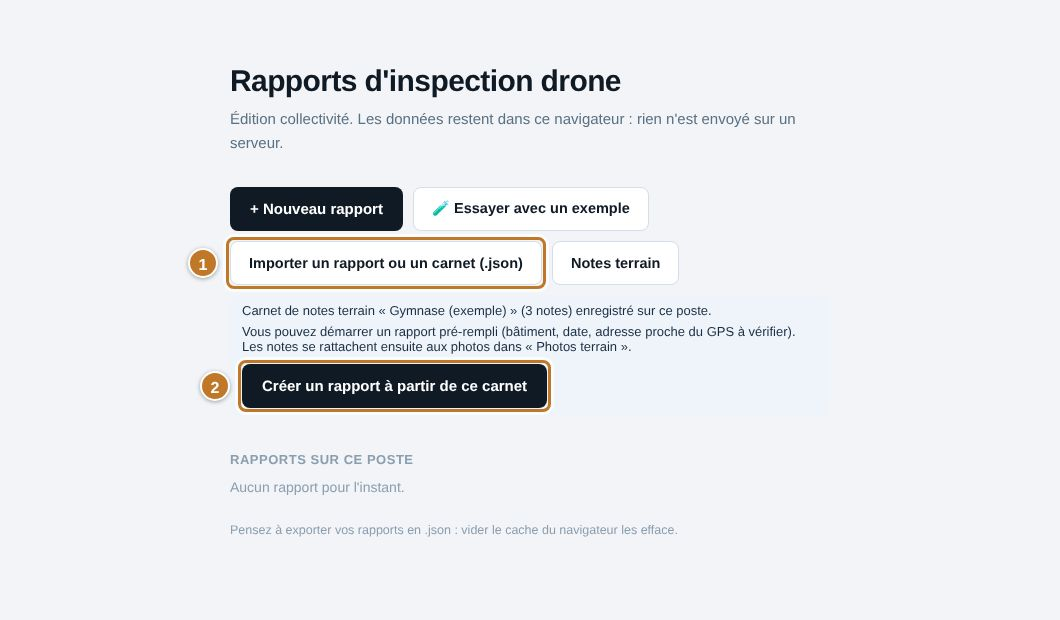
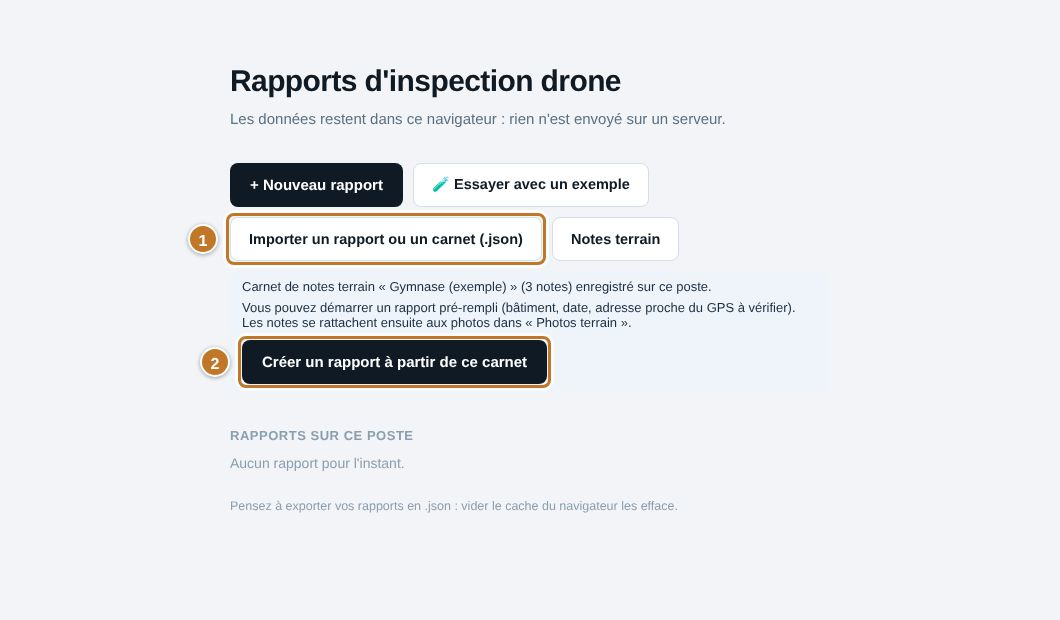
DroneReport tout court : fin de l'« édition collectivité »
Le projet SaaS est abandonné ; ce dépôt devient le projet DroneReport.
- Appli : étiquette « collectivité » du menu, sous-titre de l'accueil,
  message d'import, pied de page du PDF, titre de l'onglet et nom de
  l'appli installée.
- Fichiers .json : marqueurs dronereport/rapport et dronereport/carnet ;
  les anciens (dronereport-collectivite/…) s'importent toujours (tests).
- Base IndexedDB : nom historique conservé, sinon les navigateurs
  perdraient les rapports et carnets enregistrés.
- Paquet npm renommé dronereport ; captures du guide régénérées.
- README, AGENTS.md, PRODUCT.md, DESIGN.md, CHANGELOG, decisions.md.

Claude-Session: https://claude.ai/code/session_011V4VNhkAppRj6n6sbc18iJ

Changed region(s): [[0.1557, 0.1839, 0.7472, 0.8581]]

diff --git a/src/__tests__/formats.test.ts b/src/__tests__/formats.test.ts
@@ -1,0 +1,37 @@
+/**
+ * Formats des fichiers d'échange (.json) : nouveau marqueur « dronereport/… »,
+ * ancien marqueur « dronereport-collectivite/… » toujours accepté à l'import.
+ */
+import { describe, it, expect } from 'vitest'
+import { parseDraftFile } from '../lib/draftFile'
+import { parseCarnet, carnetToJson } from '../lib/notesTerrain'
+import { createPhotoDraft } from '../lib/reportDraft'
+import { carnetExemple } from '../lib/exemple'
+
+describe('rapport .json', () => {
+  const draft = createPhotoDraft()
+  it('lit le nouveau format', () => {
+    const txt = JSON.stringify({ format: 'dronereport/rapport', version: 1, draft })
+    expect(parseDraftFile(txt).sessionUuid).toBe(draft.sessionUuid)
+  })
+  it('lit encore les fichiers exportés avant le changement de nom', () => {
+    const txt = JSON.stringify({ format: 'dronereport-collectivite/rapport', version: 1, draft })
+    expect(parseDraftFile(txt).sessionUuid).toBe(draft.sessionUuid)
+  })
+  it('refuse un autre fichier, sans parler d\'édition', () => {
+    expect(() => parseDraftFile(JSON.stringify({ format: 'autre', draft }))).toThrow("Ce fichier n'est pas un rapport DroneReport.")
+  })
+})
+
+describe('carnet .json', () => {
+  const carnet = carnetExemple()
+  it('exporte avec le nouveau marqueur et se relit', () => {
+    const json = carnetToJson(carnet) as { format: string }
+    expect(json.format).toBe('dronereport/carnet')
+    expect(parseCarnet(JSON.stringify(json)).id).toBe(carnet.id)
+  })
+  it('lit encore les carnets exportés avant le changement de nom', () => {
+    const txt = JSON.stringify({ format: 'dronereport-collectivite/carnet', version: 1, carnet })
+    expect(parseCarnet(txt).notes).toHaveLength(3)
+  })
+})

diff --git a/src/components/AppLayout.tsx b/src/components/AppLayout.tsx
@@ -3,7 +3,7 @@ import { useDraft } from '../hooks/useDraft'
 import type { ReactNode } from 'react'
 import BandeauExemple from './BandeauExemple'
 
-// Étapes du parcours (édition collectivité : plus d'étape Paiement)
+// Étapes du parcours (sans étape Paiement : outil gratuit, sans compte)
 const STEPS = [
   { path: '/app', label: 'Accueil', n: 1 },
   { path: '/mission', label: 'Mission', n: 2 },
@@ -40,7 +40,6 @@ export default function AppLayout({ children }: { children: ReactNode }) {
         <div style={{ ...sb.brand, flexWrap: 'wrap' }}>
           <img src={`${import.meta.env.BASE_URL}favicon.svg`} alt="" style={sb.brandLogo} />
           <span style={sb.brandName}>DroneReport</span>
-          <span style={sb.brandTag}>collectivité</span>
         </div>
 
         <nav style={sb.nav}>
@@ -95,7 +94,6 @@ const sb: Record<string, React.CSSProperties> = {
     cursor: 'pointer', fontFamily: "'DM Sans', sans-serif",
   },
   guideLinkActive: { background: 'rgba(255,255,255,0.1)', color: '#fff', fontWeight: 600 },
-  brandTag: { fontSize: 10.5, fontWeight: 700, color: '#c07828', textTransform: 'uppercase', letterSpacing: '0.05em', flexBasis: '100%', paddingLeft: 38, marginTop: -6 },
   footerNote: { marginTop: 'auto', fontSize: 11.5, color: '#8a9eb0', lineHeight: 1.5, padding: '16px 20px' },
   brand: {
     padding: '28px 20px 20px',

diff --git a/src/lib/draftFile.ts b/src/lib/draftFile.ts
@@ -8,11 +8,13 @@
 import type { ReportDraft } from '../types'
 
 /** Marqueur de format, pour refuser un fichier qui n'est pas un rapport. */
-const FORMAT = 'dronereport-collectivite/rapport'
+const FORMAT = 'dronereport/rapport'
+/** Ancien marqueur (fichiers exportés avant le 27/11/2026) : toujours accepté à l'import. */
+const FORMAT_ANCIEN = 'dronereport-collectivite/rapport'
 const VERSION = 1
 
 interface DraftFile {
-  format: typeof FORMAT
+  format: typeof FORMAT | typeof FORMAT_ANCIEN
   version: number
   exportedAt: string
   draft: ReportDraft
@@ -55,8 +57,8 @@ export function parseDraftFile(text: string): ReportDraft {
   } catch {
     throw new Error("Ce fichier n'est pas un JSON valide.")
   }
-  if (data.format !== FORMAT || !data.draft?.sessionUuid) {
-    throw new Error("Ce fichier n'est pas un rapport DroneReport (édition collectivité).")
+  if ((data.format !== FORMAT && data.format !== FORMAT_ANCIEN) || !data.draft?.sessionUuid) {
+    throw new Error("Ce fichier n'est pas un rapport DroneReport.")
   }
   if ((data.version ?? 0) > VERSION) {
     throw new Error('Ce rapport vient d\'une version plus récente de l\'outil. Rechargez la page.')

diff --git a/src/lib/notesTerrain.ts b/src/lib/notesTerrain.ts
@@ -67,7 +67,9 @@ export function lirePosition(): Promise<NoteTerrain['gps']> {
 
 // ── Export / import ─────────────────────────────────────────────────────────
 
-const FORMAT = 'dronereport-collectivite/carnet'
+const FORMAT = 'dronereport/carnet'
+/** Ancien marqueur (carnets exportés avant le 27/11/2026) : toujours accepté à l'import. */
+const FORMAT_ANCIEN = 'dronereport-collectivite/carnet'
 
 /** Contenu du fichier d'échange téléphone → PC. */
 export function carnetToJson(c: CarnetTerrain): object {
@@ -108,7 +110,7 @@ export function parseCarnet(text: string): CarnetTerrain {
   } catch {
     throw new Error("Ce fichier n'est pas un JSON valide.")
   }
-  if (data.format !== FORMAT || !data.carnet?.id || !Array.isArray(data.carnet.notes)) {
+  if ((data.format !== FORMAT && data.format !== FORMAT_ANCIEN) || !data.carnet?.id || !Array.isArray(data.carnet.notes)) {
     throw new Error("Ce fichier n'est pas un carnet de notes terrain.")
   }
   return data.carnet

diff --git a/src/types/index.ts b/src/types/index.ts
@@ -65,7 +65,7 @@ export interface MissionInfos {
   notes?: string
   objetMission?: string
   methodologie?: string
-  // ── Édition collectivité ──────────────────────────────────────
+  // ── Mission : bâtiment, exploitant, vol ───────────────────────
   batiment?: string          // nom du bâtiment inspecté (ex. « Gymnase municipal »)
   refPatrimoine?: string     // référence dans l'inventaire du patrimoine bâti
   exploitant?: Exploitant    // structure exploitante UAS (porte la responsabilité du vol)

diff --git a/src/pages/Accueil.tsx b/src/pages/Accueil.tsx
@@ -1,5 +1,5 @@
 /**
- * Accueil de l'édition collectivité.
+ * Accueil de l'application.
  *
  * - Liste des rapports stockés dans ce navigateur (IndexedDB).
  * - Création, reprise, suppression d'un rapport.
@@ -117,7 +117,7 @@ export default function Accueil() {
       <div style={s.hero}>
         <h1 style={s.title}>Rapports d'inspection drone</h1>
         <p style={s.subtitle}>
-          Édition collectivité. Les données restent dans ce navigateur : rien n'est envoyé sur un serveur.
+          Les données restent dans ce navigateur : rien n'est envoyé sur un serveur.
         </p>
       </div>
 

diff --git a/src/lib/constants.ts b/src/lib/constants.ts
@@ -137,7 +137,7 @@ export function getDefaultMissionLimitations(typeInspection?: InspectionType): s
     : BASE_MISSION_LIMITATIONS
 }
 
-// ── Édition collectivité ────────────────────────────────────────────────────
+// ── Mission : exploitant, catégorie de vol, points de contrôle ───────────────
 
 /** Structures exploitantes UAS du territoire. */
 export const EXPLOITANT_LABELS: Record<Exploitant, string> = {

diff --git a/src/lib/pdfTemplate.tsx b/src/lib/pdfTemplate.tsx
@@ -112,7 +112,7 @@ function ReportHeader({ draft, fixed }: { draft: ReportDraft; fixed?: boolean })
 function PageFooter() {
   return (
     <View style={pdf.footer} fixed>
-      <Text>DroneReport (édition collectivité) — rapport généré automatiquement</Text>
+      <Text>DroneReport — rapport généré automatiquement</Text>
       <Text render={({ pageNumber, totalPages }) => `Page ${pageNumber} / ${totalPages}`} />
     </View>
   )

diff --git a/src/lib/idbStore.ts b/src/lib/idbStore.ts
@@ -9,6 +9,8 @@
  * sur un serveur.
  */
 
+// Nom historique conservé volontairement : le changer ferait « perdre » aux navigateurs
+// les rapports et carnets déjà enregistrés (IndexedDB est rangée par nom de base).
 const DB_NAME = 'dronereport-collectivite'
 const DB_VERSION = 1
 /** Un seul « store » : les brouillons de rapport, indexés par sessionUuid. */

diff --git a/index.html b/index.html
@@ -8,7 +8,7 @@
     <link rel="manifest" href="/manifest.webmanifest" />
     <!-- Outil interne : on ne veut pas être indexé -->
     <meta name="robots" content="noindex, nofollow" />
-    <title>DroneReport — édition collectivité</title>
+    <title>DroneReport</title>
   </head>
   <body>
     <div id="root"></div>

diff --git a/src/App.tsx b/src/App.tsx
@@ -1,5 +1,5 @@
 /**
- * Routage de l'édition collectivité.
+ * Routage de l'application.
  *
  * HashRouter (URL en /#/mission) : GitHub Pages ne sait pas renvoyer
  * index.html pour une URL inconnue, le hash évite les 404 au rechargement.

diff --git a/AGENTS.md b/AGENTS.md
@@ -1,11 +1,11 @@
-# DroneReport, édition collectivité
+# DroneReport
 
 Outil interne du SIT (PETR Marennes Oléron / SyMONT) : notes terrain sur téléphone et rapports PDF d'inspection de toiture par drone. Dépôt public : aucun secret, aucune donnée.
 
 ## Design
 
 Lire `DESIGN.md` avant toute décision visuelle (palette, polices, espacements).
-Les parties « produit / tarifs » de DESIGN.md concernent la version SaaS d'origine et ne s'appliquent pas ici.
+DESIGN.md ne contient plus que la charte graphique (la partie « produit / tarifs » de l'ancienne version SaaS a été retirée).
 
 ## Contraintes d'architecture
 
@@ -31,7 +31,9 @@ Publication : push sur `main` → GitHub Actions → https://sit-pmo.github.io/d
 
 ## État au 2026-11-27
 
-- Version 1.0.0 : dérivée du SaaS DroneReport (dépôt privé `aurelienchaumet/dronereport`), paiement et cloud retirés.
+- Version 1.0.0 : reprise de l'ancienne version SaaS (dépôt privé `aurelienchaumet/dronereport`), paiement et cloud retirés.
+  Projet SaaS abandonné le 27/11/2026 : ce dépôt est désormais LE projet DroneReport (plus d'« édition collectivité »).
+  Seul reste le nom de la base IndexedDB `dronereport-collectivite`, gardé pour ne pas perdre les données des navigateurs.
 - Testée de bout en bout dans Chrome (mobile → PC → PDF) avec des photos factices au format DJI ; 31 tests unitaires.
 - Pas encore testée avec une vraie photo DJI ni sur un vrai téléphone en vol.
 - Publiée sur GitHub Pages (workflow « Publier sur GitHub Pages » vert).
@@ -49,5 +51,5 @@ Publication : push sur `main` → GitHub Actions → https://sit-pmo.github.io/d
 - Visite guidée téléphone (mode terrain) : « 🧪 Découvrir en 1 minute » dans Notes terrain et dans le
   Guide sur mobile, 8 étapes sur un carnet d'essai (`ETAPES_VISITE_TERRAIN`). Une étape « clic » peut
   surligner une zone entière et n'avancer qu'au clic sur un bouton (`clicSur`) : sinon le voile
-  empêche d'utiliser les champs voisins. 50 tests unitaires.
+  empêche d'utiliser les champs voisins. 55 tests unitaires.
 - Points ouverts : voir `contraintes.md` (« À vérifier » sur matériel réel, « À trancher »).
